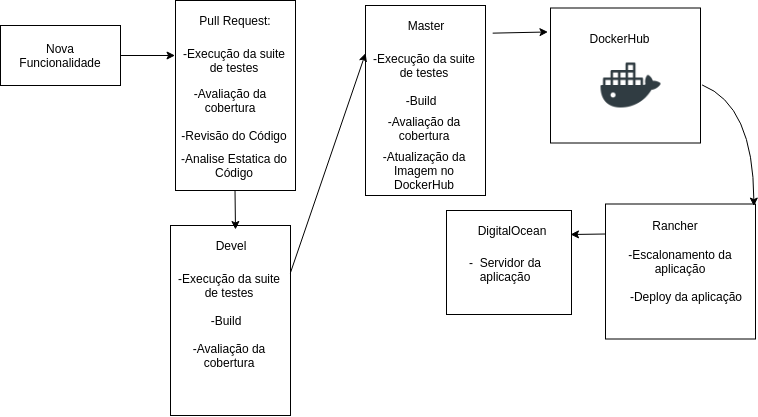
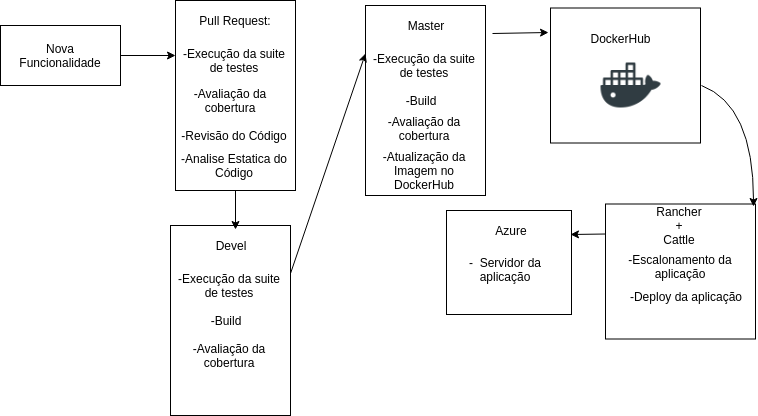
atualizando diagrama de arquitetura e relacoes

diff --git a/docs/docarquitetura.html b/docs/docarquitetura.html
@@ -166,6 +166,12 @@
                                         <td>Adicionando o pipeline de integração</td>
                                         <td>Taynara Carvalho</td>
                                     </tr>
+                                    <tr>
+                                        <td>14/11/2018</td>
+                                        <td>0.17</td>
+                                        <td>Atualizando diagrama relações e pipeline arquitetura</td>
+                                        <td>Mateus Roriz</td>
+                                    </tr>
                                     </tbody>
                                 </table>
                             </div>
